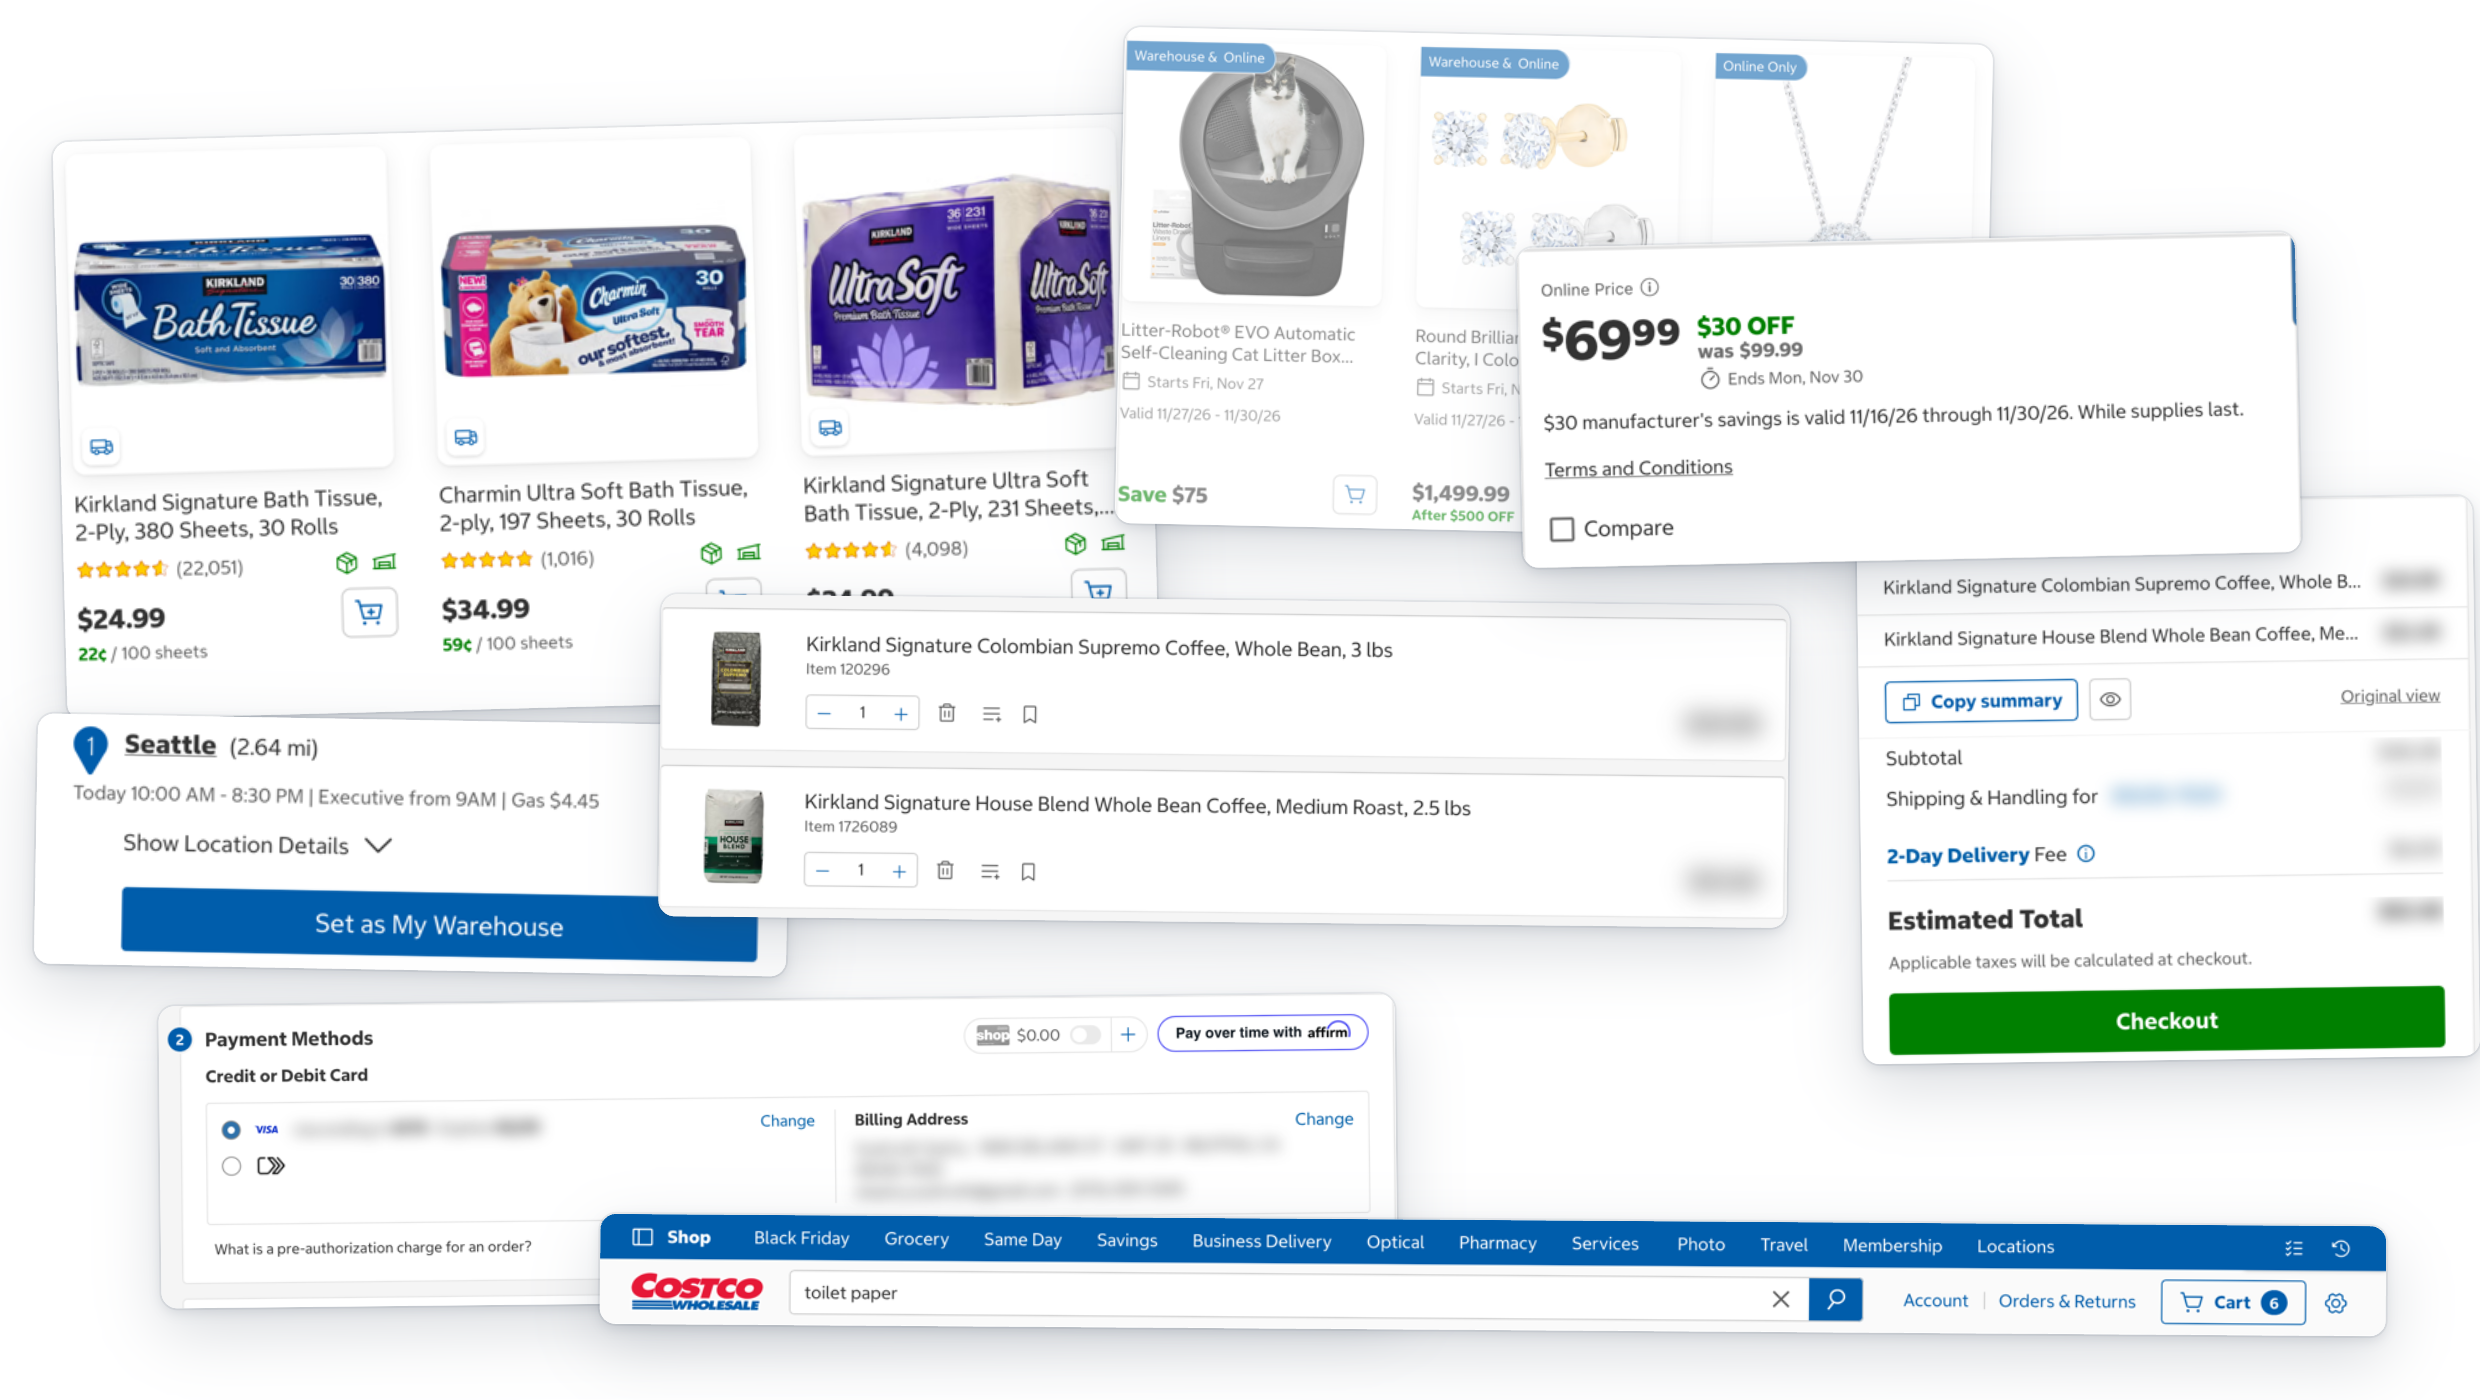
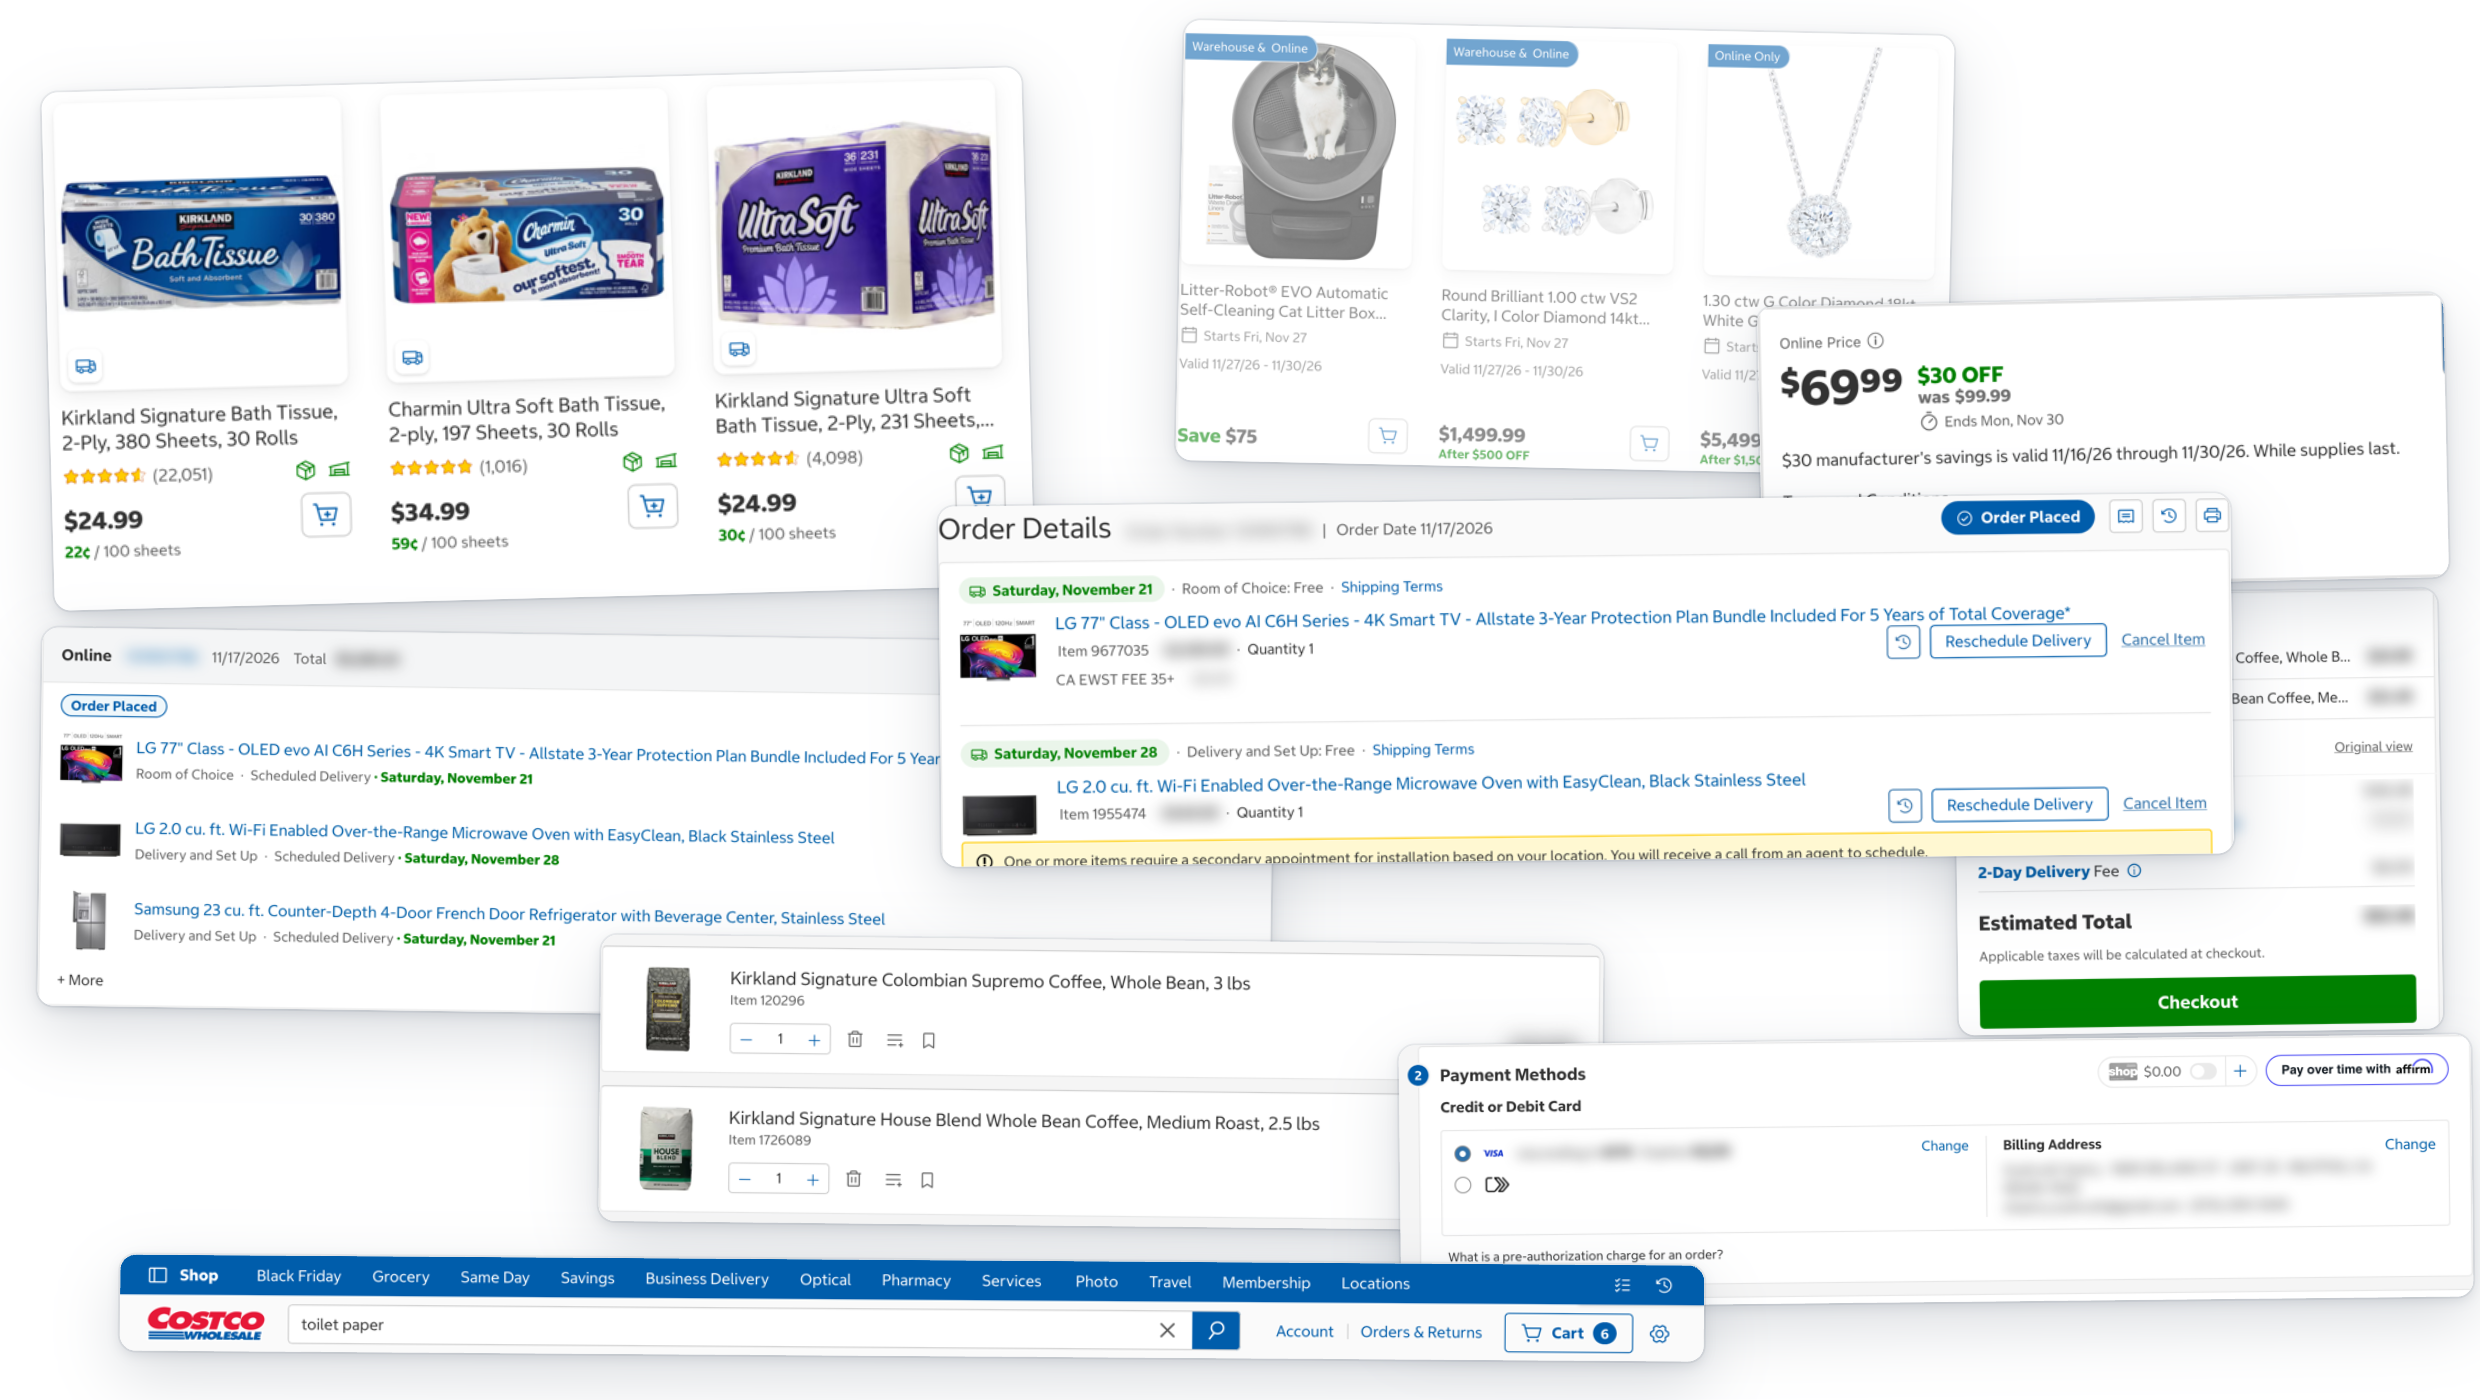
Screenshots: orders and order details pairs; the hero adds both pages

diff --git a/dev/hero.ts b/dev/hero.ts
@@ -8,14 +8,15 @@ const W = 1240, H = 700;
 // [shot, crop x, y, w, h in the 1440px shot, scale, left, top, tilt°] — listed back to front.
 // ponytail: hand-placed; if a shot's layout moves, its crop rectangle needs a new look.
 const pieces: [string, number, number, number, number, number, number, number, number][] = [
-  ['search', 270, 200, 700, 370, 0.78, 30, 64, -1.5], // result tiles: badges, price per unit, cart icon
-  ['deals', 20, 350, 700, 400, 0.62, 560, 18, 1.2], // savings cards in the same tile style
-  ['cart', 964, 144, 440, 400, 0.7, 930, 250, -0.8], // order review panel
-  ['locator', 14, 352, 470, 156, 0.8, 18, 360, 1], // warehouse hours, Executive hour and gas on one line
-  ['cart', 24, 236, 910, 260, 0.62, 330, 300, 0.6], // compact cart cards
-  ['product', 844, 406, 572, 236, 0.68, 760, 120, -1.2], // promo end date under the price
-  ['checkout', 6, 318, 1030, 252, 0.6, 80, 500, -0.6], // wallet chip, Affirm pill and card box
-  ['search', 0, 0, 1440, 88, 0.62, 300, 610, 0.4], // two-row header
+  ['search', 270, 200, 700, 370, 0.7, 24, 40, -1.5], // result tiles: badges, price per unit, cart icon
+  ['deals', 20, 350, 700, 400, 0.55, 590, 14, 1.2], // savings cards in the same tile style
+  ['cart', 964, 144, 440, 400, 0.55, 978, 296, -0.8], // order review panel
+  ['orders', 310, 302, 1100, 337, 0.56, 20, 318, 0.8], // orders list: one-line head, status pill, compact items
+  ['product', 844, 406, 572, 236, 0.6, 880, 150, -1.2], // promo end date under the price
+  ['orderdetails', 335, 140, 1076, 300, 0.6, 470, 250, -0.6], // order details: status chip, date chips, item rows
+  ['cart', 24, 236, 910, 260, 0.55, 300, 470, 0.6], // compact cart cards
+  ['checkout', 6, 318, 1030, 252, 0.52, 700, 520, -0.6], // wallet chip, Affirm pill and card box
+  ['search', 0, 0, 1440, 88, 0.55, 60, 630, 0.4], // two-row header
 ];
 
 const piece = ([shot, x, y, w, h, s, left, top, tilt]: (typeof pieces)[number]) =>

diff --git a/SCREENSHOTS.md b/SCREENSHOTS.md
@@ -1,6 +1,6 @@
 # Before and after
 
-Costco's own pages are on the left, and the same pages with the userscript are on the right. Each pair was taken at 1440px wide, except the phone pair at 390px. The warehouse, ZIP code, address, card, membership number and the cart's prices and discounts are blurred.
+Costco's own pages are on the left, and the same pages with the userscript are on the right. Each pair was taken at 1440px wide, except the phone pair at 390px. The warehouse, ZIP code, name, address, card, membership and order numbers, and prices and discounts are blurred.
 
 ## Home
 
@@ -59,6 +59,22 @@ Each warehouse shows today's hours, the Executive member start time and the gas 
 | Before | After |
 | --- | --- |
 | <img src="docs/compare/cart-before.png" alt="Cart before" width="440"> | <img src="docs/compare/cart-after.png" alt="Cart after" width="440"> |
+
+## Orders
+
+Each order is a light card with a one-line head: number, date and total, then View Order and Buy Again as an icon. The status is a pill, and each item takes one row with its delivery on one small line.
+
+| Before | After |
+| --- | --- |
+| <img src="docs/compare/orders-before.png" alt="Orders and Purchases before" width="440"> | <img src="docs/compare/orders-after.png" alt="Orders and Purchases after" width="440"> |
+
+## Order details
+
+The title row carries the order status as a chip, with Order Summary, Buy Again and Print as icons. Each delivery opens with a date chip, and each item fits one row with its actions beside the price. Only the services' second-appointment notice stays.
+
+| Before | After |
+| --- | --- |
+| <img src="docs/compare/orderdetails-before.png" alt="Order details before" width="440"> | <img src="docs/compare/orderdetails-after.png" alt="Order details after" width="440"> |
 
 ## Checkout
 
